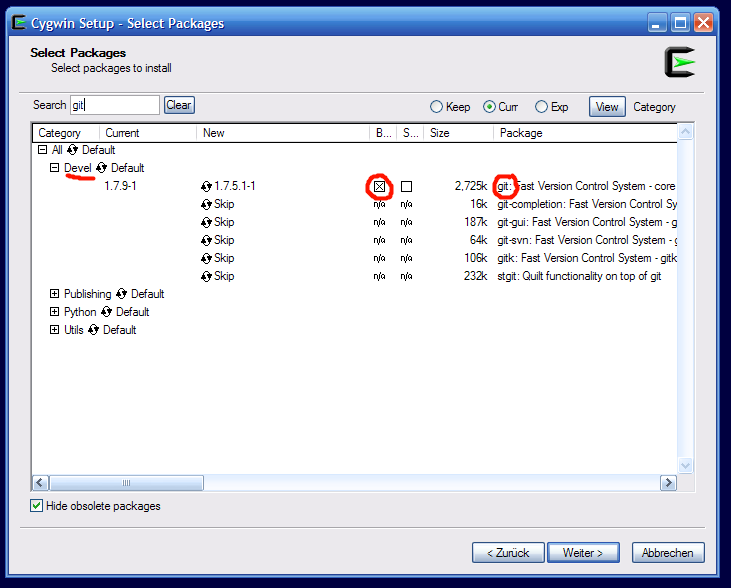
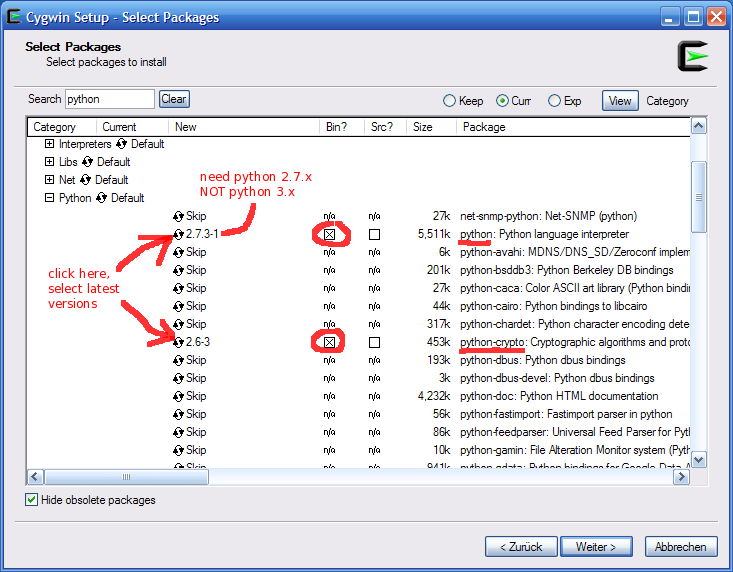
new screenshots for cygwin installation

Changed region(s): [[0.0, 0.0, 1.0, 1.0], [0.4213, 0.5647, 0.4815, 0.6241], [0.4213, 0.3864, 0.4815, 0.4458]]

diff --git a/cygwin.html b/cygwin.html
@@ -39,22 +39,22 @@ your cygwin installation. The following screen shots illustrate it on an old
 Windows XP system (I did not have any other Windows around here but it should
 be pretty much identical on any later version of Windows):</p>
 
-<p><img
-alt="Screenshot: Select python and python-crypto packages for installation"
-src="cygwin02.png" width="725" height="584" /></p>
+<p><img alt="Screenshot: select python packages for installation"
+src="cygwin01.png" width="733" height="572" /></p>
 
-<p><img alt="Screenshot: Select git package for installation"
-src="cygwin01.png" width="731" height="588" /></p>
+<p><img alt="Screenshot: select git for installation" src="cygwin02.png"
+width="733" height="572" /></p>
 
-<p>It will then download and install these packages along with a bunch of other
-packages that are needed dependencies. All the stuff will be installed into the
-<span class="codeword">c:\cygwin\</span> folder (just in case you wonder what
-all these unix path names like <span class="codeword">/usr/bin/whatever</span>
-mean on a Windows system: its all inside the cygwin folder which will emulate
-the root <span class="codeword">/</span> of a unix file system. There you will
-also later find your home folder (in the terminal it will be abbreviated with a
-tilde <span class="codeword">~</span> and its real physical location will be in
-<span class="codeword">c:\cygwin\home\yourname\</span> and goxtool will also be
+<p>It will then download and install these packages along with a number of
+other packages that are needed dependencies. All the files will be installed
+into the <span class="codeword">c:\cygwin\</span> folder (just in case you
+wonder what all the unix path names like <span
+class="codeword">/usr/bin/whatever</span> mean on a Windows system: its all
+inside the cygwin folder which will emulate the root <span
+class="codeword">/</span> of a unix file system. There you will also later find
+your home folder (in the terminal it will be abbreviated with a tilde <span
+class="codeword">~</span> and its real physical location will be in <span
+class="codeword">c:\cygwin\home\yourname\</span> and goxtool will also be
 installed inside this folder).</p>
 
 <p>After successful installation you should find a shortcut to the cygwin
